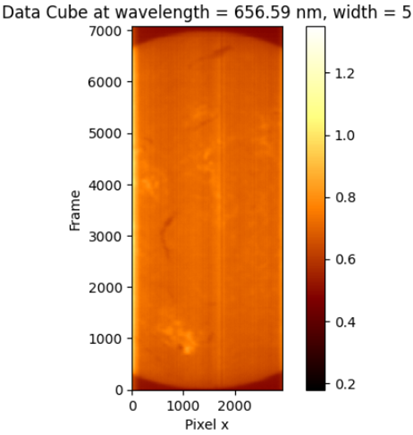
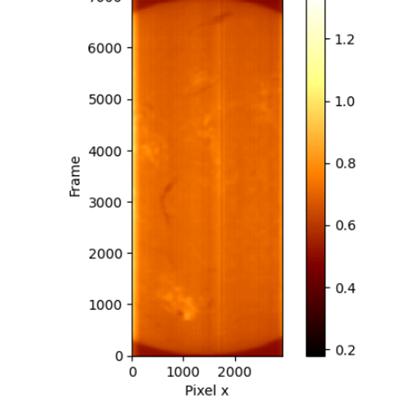
Tone the portrait to the stage, add stack tags, tidy P2/P3 critique items
Portrait: blue backdrop recoloured to charcoal so it sits on the hero stage.
Project cards: stack tags taken from each card's own text. The two cards in a
row now open and close together so a row never has a blank gap. Nav: Education
link restored and scrollspy clears at the top and at contact. Contact copy now
matches the AirGradient start; title, description and a personal favicon
replace the CeroSoft mark; the footer no longer links to the design spec.
Hana station chart redrawn in the system palette with the same figures; the
clipped data-cube title is cropped off; photo, clip and screenshot captions
are sentence case; SVG diagram labels are larger.

diff --git a/index.html b/index.html
@@ -3,9 +3,9 @@
 <head>
 <meta charset="utf-8">
 <meta name="viewport" content="width=device-width, initial-scale=1, viewport-fit=cover">
-<link rel="icon" href="img/cerosoft-mark.webp">
-<title>Patcharadanai Sombatsatien</title>
-<meta name="description" content="Portfolio of Patcharadanai Sombatsatien (Cheer): AI, computer vision and embedded systems.">
+<link rel="icon" href="img/favicon.svg" type="image/svg+xml">
+<title>Patcharadanai Sombatsatien · Embedded Firmware Engineer</title>
+<meta name="description" content="Portfolio of Patcharadanai Sombatsatien (Cheer): embedded firmware, computer vision and instrument control. Founder of CeroSoft.">
 <link rel="preconnect" href="https://fonts.googleapis.com">
 <link rel="preconnect" href="https://fonts.gstatic.com" crossorigin>
 <link rel="stylesheet" href="https://fonts.googleapis.com/css2?family=Inter:wght@400;500;600&family=Geist+Mono:wght@400;500&family=Noto+Sans+Thai:wght@400;500;600&display=swap">
@@ -24,6 +24,7 @@
     <a href="#work">Projects</a>
     <a href="#experience">Experience</a>
     <a href="#research">Research</a>
+    <a href="#education">Education</a>
   </div>
   <a class="chip-cta" href="#contact">Get in touch</a>
   <button class="menu-btn" id="menuBtn" type="button" aria-label="Open menu" aria-expanded="false" aria-controls="sheet">
@@ -136,6 +137,7 @@
         <h3>Training-free domain adaptation via LoRA fusion</h3>
         <div class="meta">Master's thesis · Xi'an Jiaotong University · 2024–2026</div>
         <p>Parameter-Efficient Training-Free Domain Adaptation via LoRA Fusion for Open-Vocabulary Segmentation. Combines heterogeneous pre-training, parameter-efficient adaptation and similarity-driven adapter composition to keep zero-shot generalisation while improving cross-domain stability and computational efficiency.</p>
+        <div class="focus stack"><span class="tag">LoRA fusion</span><span class="tag">Open-vocabulary segmentation</span><span class="tag">Deep learning</span></div>
         <ol class="pipeline">
           <li><span class="n">1</span><div><b>Similarity-guided LoRA selection</b><span>Pick the adapters closest to the input domain</span></div></li>
           <li><span class="n">2</span><div><b>Dynamic fusion</b><span>Weight and merge them at inference time</span></div></li>
@@ -163,6 +165,7 @@
             <li>Control software for the actuator: COM-port selection, motion control, saved configurations</li>
             <li>Live FWHM measurement tied to actuator position</li>
           </ul>
+          <div class="focus stack"><span class="tag">Instrument control</span><span class="tag">Motion control</span><span class="tag">Optics</span></div>
         </div>
         <details class="more">
           <summary>More photos and video</summary>
@@ -193,6 +196,7 @@
             <li>Shack–Hartmann wavefront sensor and deformable mirror calibration</li>
             <li>Interaction-matrix measurement and leaky-integrator control loop</li>
           </ul>
+          <div class="focus stack"><span class="tag">Adaptive optics</span><span class="tag">Control loop</span><span class="tag">Calibration</span></div>
         </div>
         <details class="more">
           <summary>More photos</summary>
@@ -218,6 +222,7 @@
             <li>Range-correction data processing and laser power control</li>
             <li>Dashboard showing live readings and LiDAR profiles</li>
           </ul>
+          <div class="focus stack"><span class="tag">Data processing</span><span class="tag">Laser control</span><span class="tag">Web dashboard</span></div>
         </div>
         <details class="more">
           <summary>More photos and video</summary>
@@ -249,6 +254,7 @@
             <li>Data-cube visualisation, shown here at 656.59 nm</li>
             <li>Distortion correction to reveal solar features</li>
           </ul>
+          <div class="focus stack"><span class="tag">Optics</span><span class="tag">3D printing</span><span class="tag">Data cube</span></div>
         </div>
         <details class="more">
           <summary>More photos</summary>
@@ -270,9 +276,20 @@
           <div class="meta">Hana Microelectronics × Keysight Technologies · 2021–2023</div>
           <h3>Four test-line automation projects</h3>
           <p>Each one replaced a manual step on the RF production line with a small program.</p>
+          <div class="focus stack"><span class="tag">Python</span><span class="tag">PyVISA</span><span class="tag">Test automation</span></div>
         </div>
         <div class="auto">
-          <figure><div class="pic"><img src="img/hana-station.webp" alt="Pie chart of station run, idle and setup time" loading="lazy"></div>
+          <figure><div class="pic"><svg class="dg" viewBox="0 0 280 210" role="img" aria-label="Donut chart of test-station time: idle 52.8 percent, run 41.7 percent, setup 5.6 percent">
+  <text class="dg-t" x="14" y="26">MMA station performance</text>
+  <g transform="rotate(-90 78 118)" fill="none" stroke-width="26">
+    <circle cx="78" cy="118" r="52" stroke="#393e46" stroke-dasharray="172.5 326.7" stroke-dashoffset="0"/>
+    <circle cx="78" cy="118" r="52" stroke="#00adb5" stroke-dasharray="136.2 326.7" stroke-dashoffset="-172.5"/>
+    <circle cx="78" cy="118" r="52" stroke="#c9cdd1" stroke-dasharray="18.3 326.7" stroke-dashoffset="-308.7"/>
+  </g>
+  <rect x="160" y="86" width="12" height="12" rx="2" fill="#393e46"/><text class="dg-t" x="180" y="96">Idle</text><text class="dg-t" x="180" y="112" style="font-weight:400" fill="#5b616b">52.8%</text>
+  <rect x="160" y="126" width="12" height="12" rx="2" fill="#00adb5"/><text class="dg-t" x="180" y="136">Run</text><text class="dg-t" x="180" y="152" style="font-weight:400" fill="#5b616b">41.7%</text>
+  <rect x="160" y="166" width="12" height="12" rx="2" fill="#c9cdd1"/><text class="dg-t" x="180" y="176">Setup</text><text class="dg-t" x="180" y="192" style="font-weight:400" fill="#5b616b">5.6%</text>
+</svg></div>
             <figcaption><b>Weekly test-station update</b><span>Station utilisation sent to the team automatically through LINE Notify.</span></figcaption></figure>
           <figure><div class="pic"><svg class="dg" viewBox="0 0 280 210" role="img" aria-label="Diagram: three instruments feed a program through PyVISA, which writes to a database and sends an e-mail alert">
   <g class="dg-ln"><path d="M74 48C98 48 102 90 118 92"/><path d="M74 94L118 100"/><path d="M74 140C98 140 102 110 118 108"/><path d="M190 100H219"/><path class="two" d="M155 118V137"/></g>
@@ -325,6 +342,7 @@
             <li>Image processing on intersection video</li>
             <li>Vehicle detection, tracking and per-route counting</li>
           </ul>
+          <div class="focus stack"><span class="tag">Image processing</span><span class="tag">Detection and tracking</span></div>
         </div>
       </article>
 
@@ -350,6 +368,7 @@
               <li>Helped develop a web-based system to track flood conditions for the community in Mae Chan, Chiang Rai</li>
             </ul>
           </div>
+          <div class="focus stack"><span class="tag">Microcontroller firmware</span><span class="tag">PM2.5 sensing</span><span class="tag">Web system</span></div>
         </div>
       </article>
     </div>
@@ -481,7 +500,7 @@
   <div class="wrap contact-grid">
     <div>
       <h2>Let's tal<span class="last">k</span></h2>
-      <p>Open to roles in AI, computer vision and embedded software. I'm happy to walk through any of these projects in detail.</p>
+      <p>I'm an embedded firmware engineer at AirGradient from November 2026 and I build software at CeroSoft. Happy to talk about firmware, computer vision and instrument control, or to walk through any of these projects in detail.</p>
     </div>
     <div>
       <div class="addr">
@@ -493,7 +512,7 @@
     </div>
   </div>
 </section>
-<footer><div class="wrap"><span>© 2026 Patcharadanai Sombatsatien</span><a href="design-system.html">Design system</a></div></footer>
+<footer><div class="wrap"><span>© 2026 Patcharadanai Sombatsatien</span></div></footer>
 
 <script>
 (function () {
@@ -557,7 +576,7 @@
     Array.prototype.forEach.call(vids, function (v) { vio.observe(v); });
   })();
 
-  // current section in the nav
+  // current section in the nav (cleared at the top and at the contact section)
   (function () {
     if (!('IntersectionObserver' in window)) return;
     var links = document.querySelectorAll('.nav-links a, .sheet a'), map = {};
@@ -565,12 +584,24 @@
     var spy = new IntersectionObserver(function (entries) {
       entries.forEach(function (en) {
         if (!en.isIntersecting) return;
-        var id = en.target.id;
         Array.prototype.forEach.call(links, function (a) { a.removeAttribute('aria-current'); });
-        (map[id] || []).forEach(function (a) { a.setAttribute('aria-current', 'true'); });
+        (map[en.target.id] || []).forEach(function (a) { a.setAttribute('aria-current', 'true'); });
       });
     }, { rootMargin: '-40% 0px -55% 0px' });
-    ['cerosoft', 'work', 'experience', 'research', 'education'].forEach(function (id) { var el = document.getElementById(id); if (el) spy.observe(el); });
+    ['top', 'cerosoft', 'work', 'experience', 'research', 'education', 'contact'].forEach(function (id) { var el = document.getElementById(id); if (el) spy.observe(el); });
+  })();
+
+  // the two cards in a row open and close together, so a row never has a blank gap
+  (function () {
+    var grid = document.querySelector('#work .grid'); if (!grid) return;
+    var cards = Array.prototype.filter.call(grid.children, function (c) { return c.classList.contains('card'); });
+    var pair = { 0: 1, 1: 0, 2: 3, 3: 2, 5: 6, 6: 5 };
+    grid.addEventListener('toggle', function (e) {
+      var d = e.target; if (!d.matches || !d.matches('details.more')) return;
+      var p = cards[pair[cards.indexOf(d.closest('.card'))]];
+      var pd = p && p.querySelector(':scope > details.more');
+      if (pd && pd.open !== d.open) pd.open = d.open;
+    }, true);
   })();
 
   // experience total: Hana + NARIT (41 months) plus AirGradient from Nov 2026, counted from today.

diff --git a/site.css b/site.css
@@ -157,7 +157,7 @@ ul, ol { margin: 0; }
 .screens img { border-radius: var(--r-well); width: 100%; background: var(--device-black); }
 .screens .desk { grid-column: 1 / -1; border: 1px solid var(--on-dark-line); box-shadow: var(--shadow-device); }
 .screens .phone { aspect-ratio: 9 / 16; object-fit: cover; object-position: top; border: 6px solid var(--device-black); border-radius: 22px; box-shadow: var(--shadow-device); }
-.screens figcaption { grid-column: 1 / -1; font: 400 .78rem/1.5 var(--font-mono); letter-spacing: .06em; text-transform: uppercase; color: var(--on-dark-muted); }
+.screens figcaption { grid-column: 1 / -1; font: 400 .85rem/1.5 var(--font-sans); color: var(--on-dark-muted); }
 @media (max-width: 1000px) { .venture { grid-template-columns: 1fr; } }
 
 .role { list-style: none; padding: 0; display: flex; flex-direction: column; gap: 8px; font-size: .95rem; line-height: 1.55; margin-top: 4px; }
@@ -206,8 +206,8 @@ ul, ol { margin: 0; }
 .dg { width: 100%; height: 100%; display: block; color: var(--charcoal); overflow: visible; }
 .dg-ln path { fill: none; stroke: var(--graphite); stroke-width: 1.4; stroke-linecap: round; marker-end: url(#dg-ah); color: var(--graphite); }
 .dg-ln path.two { marker-start: url(#dg-ah); }
-.dg-t { font: 500 11.5px var(--font-sans); fill: var(--charcoal); }
-.dg-m { font: 400 9.5px var(--font-mono); letter-spacing: .06em; text-transform: uppercase; fill: var(--muted); }
+.dg-t { font: 500 13px var(--font-sans); fill: var(--charcoal); }
+.dg-m { font: 400 11px var(--font-mono); letter-spacing: .06em; text-transform: uppercase; fill: var(--muted); }
 .dg-t.on { fill: var(--on-dark-heading); }
 .dg-m.on { fill: var(--on-dark-muted); }
 .auto figcaption { padding: 16px 18px 20px; flex: 1; display: flex; flex-direction: column; gap: 4px; }
@@ -220,7 +220,7 @@ ul, ol { margin: 0; }
 .thumbs figure { margin: 0; display: flex; flex-direction: column; gap: 8px; min-width: 0; }
 .thumbs img { width: 100%; aspect-ratio: 4 / 3; object-fit: cover; border-radius: var(--r-well); }
 .thumbs.tall img { aspect-ratio: 3 / 4; }
-.thumbs figcaption { font: 400 .78rem/1.4 var(--font-mono); letter-spacing: .06em; text-transform: uppercase; color: var(--muted); }
+.thumbs figcaption { font: 400 .85rem/1.4 var(--font-sans); color: var(--muted); }
 @media (max-width: 480px) { .thumbs.tall { grid-template-columns: repeat(2, minmax(0, 1fr)); } }
 .demo { display: grid; grid-template-columns: 180px minmax(0, 1fr); gap: 24px; align-items: center; padding: 24px; border-top: 1px solid var(--line); }
 .demo video { border-radius: var(--r-well); background: #000; width: 180px; aspect-ratio: 444 / 960; object-fit: cover; }
@@ -229,7 +229,7 @@ ul, ol { margin: 0; }
 .clips { display: grid; grid-template-columns: repeat(2, minmax(0, 1fr)); gap: 16px; padding: 24px; border-top: 1px solid var(--line); }
 .clips figure { margin: 0; display: flex; flex-direction: column; gap: 10px; min-width: 0; }
 .clips video { width: 100%; aspect-ratio: 16 / 9; border-radius: var(--r-well); background: #000; object-fit: cover; }
-.clips figcaption { font: 400 .78rem/1.4 var(--font-mono); letter-spacing: .06em; text-transform: uppercase; color: var(--muted); }
+.clips figcaption { font: 400 .85rem/1.4 var(--font-sans); color: var(--muted); }
 @media (max-width: 640px) { .clips { grid-template-columns: 1fr; } }
 
 /* ---------- experience (dark) ---------- */
@@ -322,3 +322,7 @@ footer a { display: inline-block; padding-block: 12px; text-decoration-color: va
 .grid .media.split > img { height: 100%; }
 .thumbs.contain { grid-template-columns: 1fr; }
 .thumbs.contain img { aspect-ratio: 2 / 1; object-fit: contain; background: var(--well); }
+
+/* stack tags on project cards */
+.stack { margin-top: 6px; }
+.feature .stack { margin: 0 0 4px; }

diff --git a/DESIGN.md b/DESIGN.md
@@ -200,6 +200,9 @@ A canvas wireframe sphere behind the hero portrait. Latitude and longitude lines
 ### Timeline logo tiles
 Company logos sit on a 96×56 white tile (6px radius) above each date, so JPG and SVG logos with white backgrounds read on charcoal.
 
+### Stack tags
+Each project card ends its body with up to three mono tags naming the work domain or tools stated in the card text (never a claim the card does not make). Light cards use the Well chip; the dark thesis card uses the translucent dark chip. Captions under photos, clips and screenshots are sentence-case Inter, not mono caps.
+
 ### Disclosure ("More photos")
 Each project card shows one lead visual and the body; extra photos and video fold into a native `<details class="more">` row: a mono uppercase summary with a chevron, 56px tall, hairline above. Closed content loads nothing. The datacube figure stays visible because it is key evidence.
 
